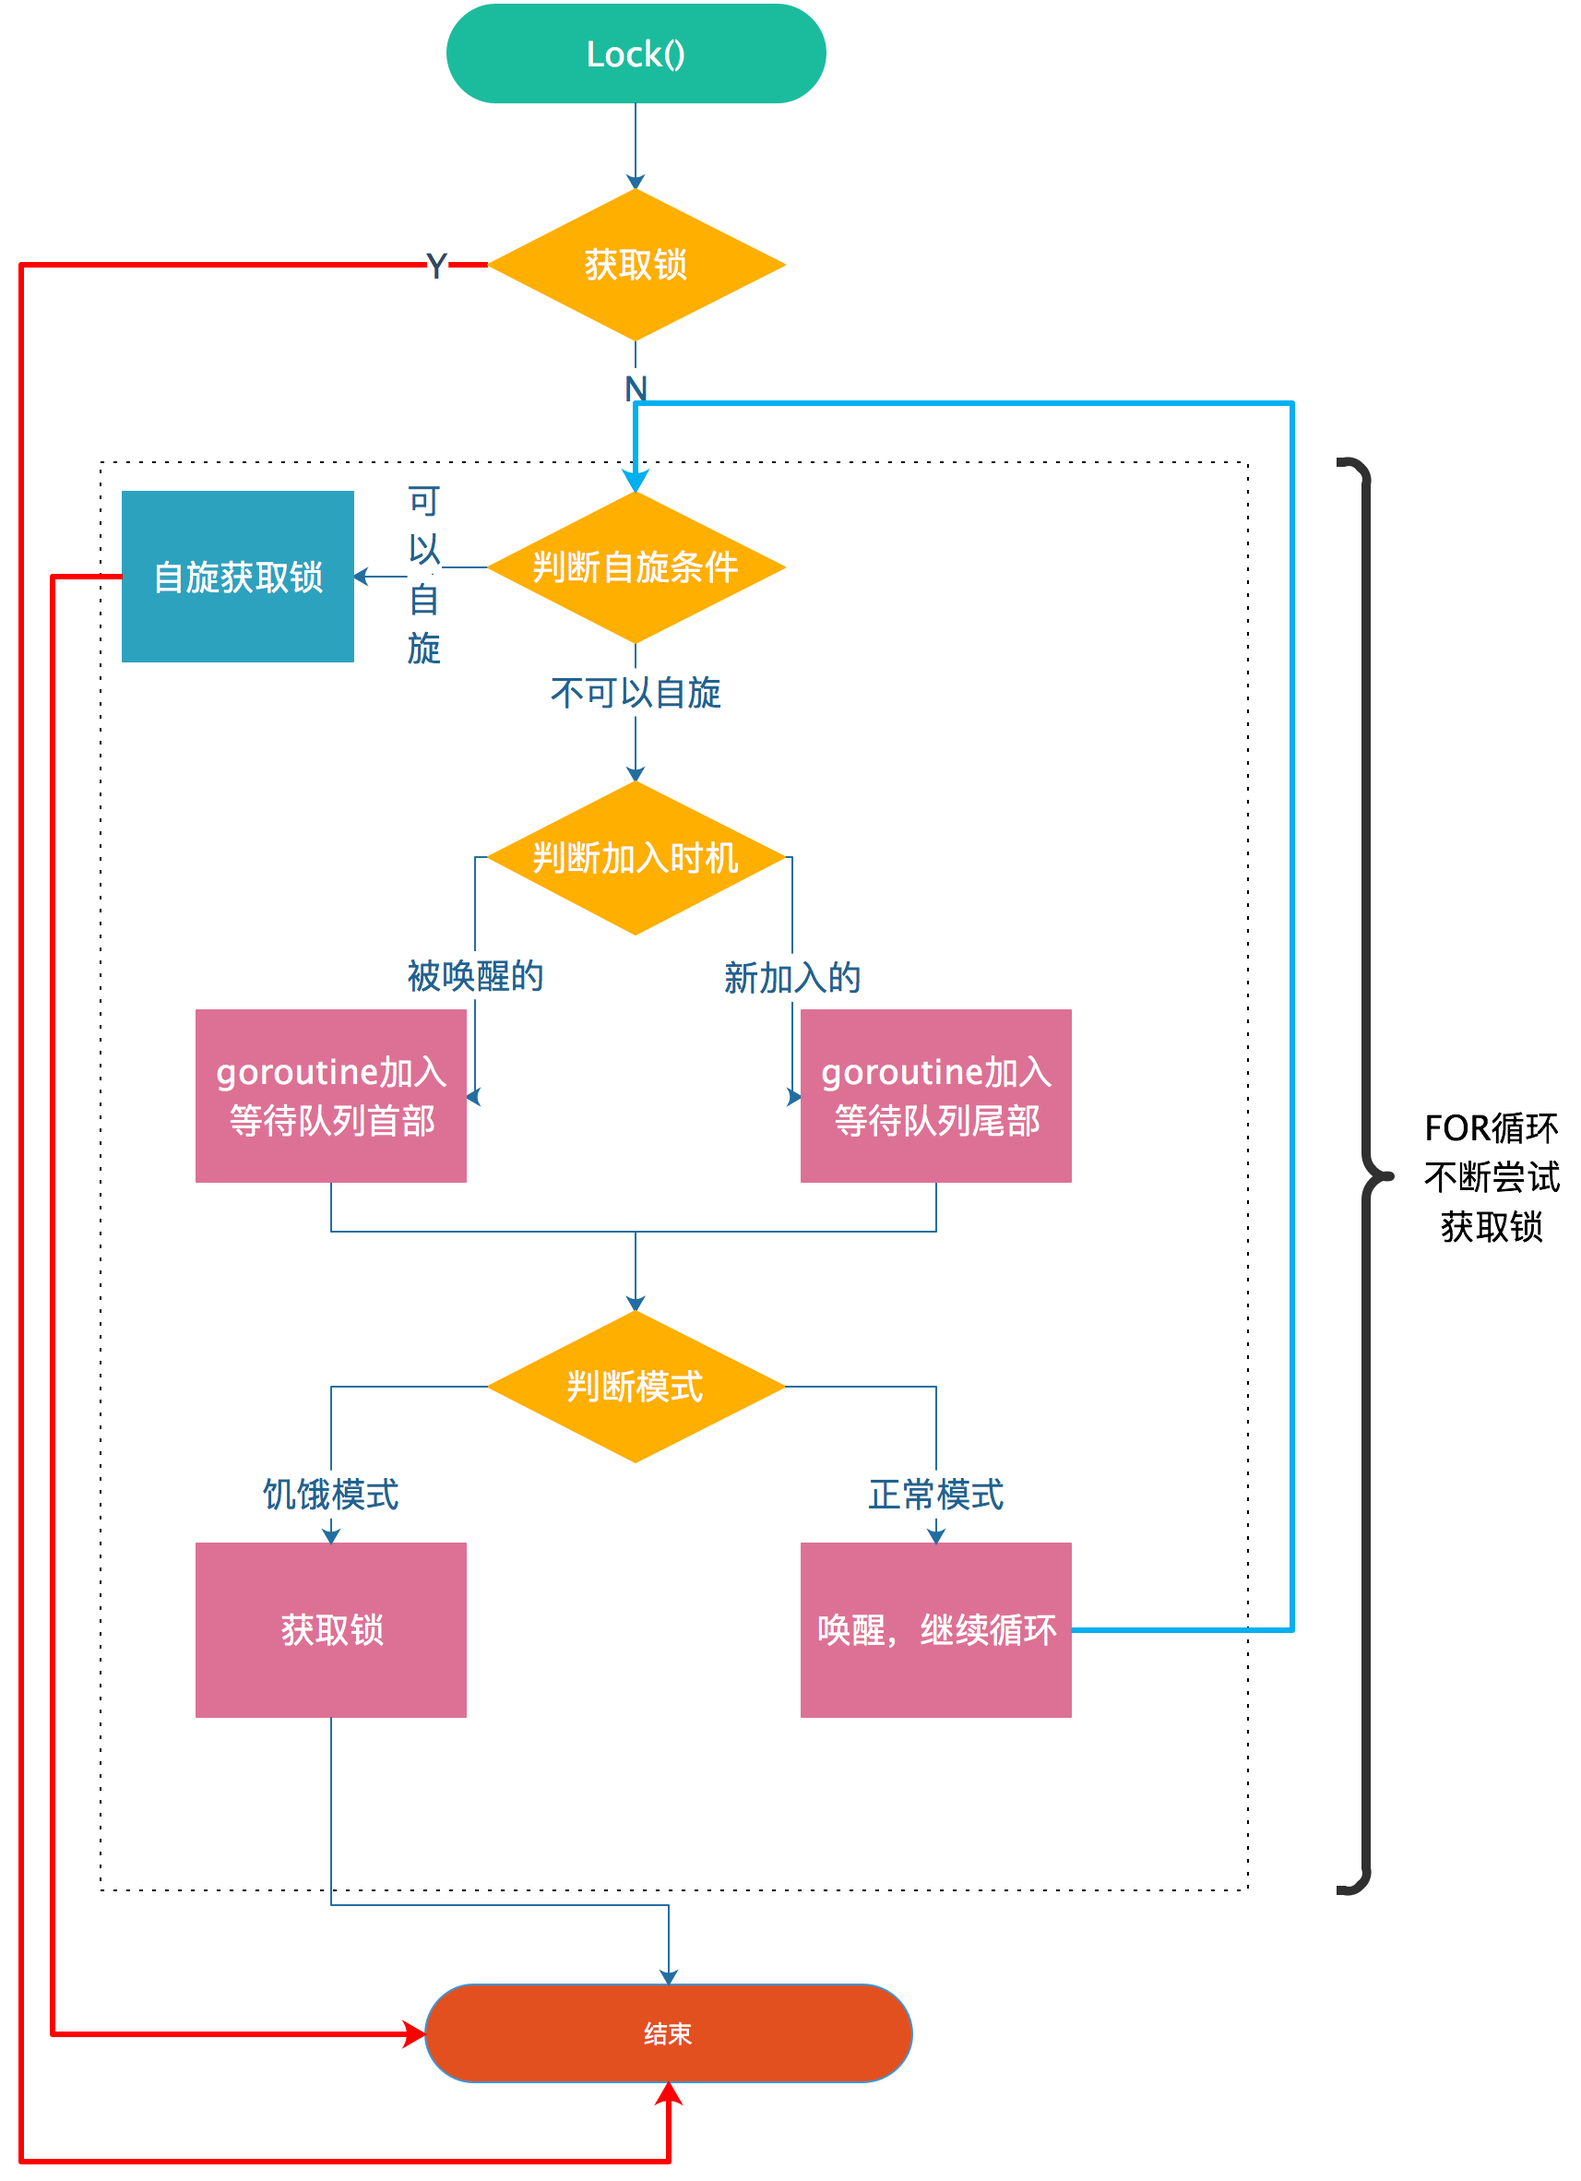
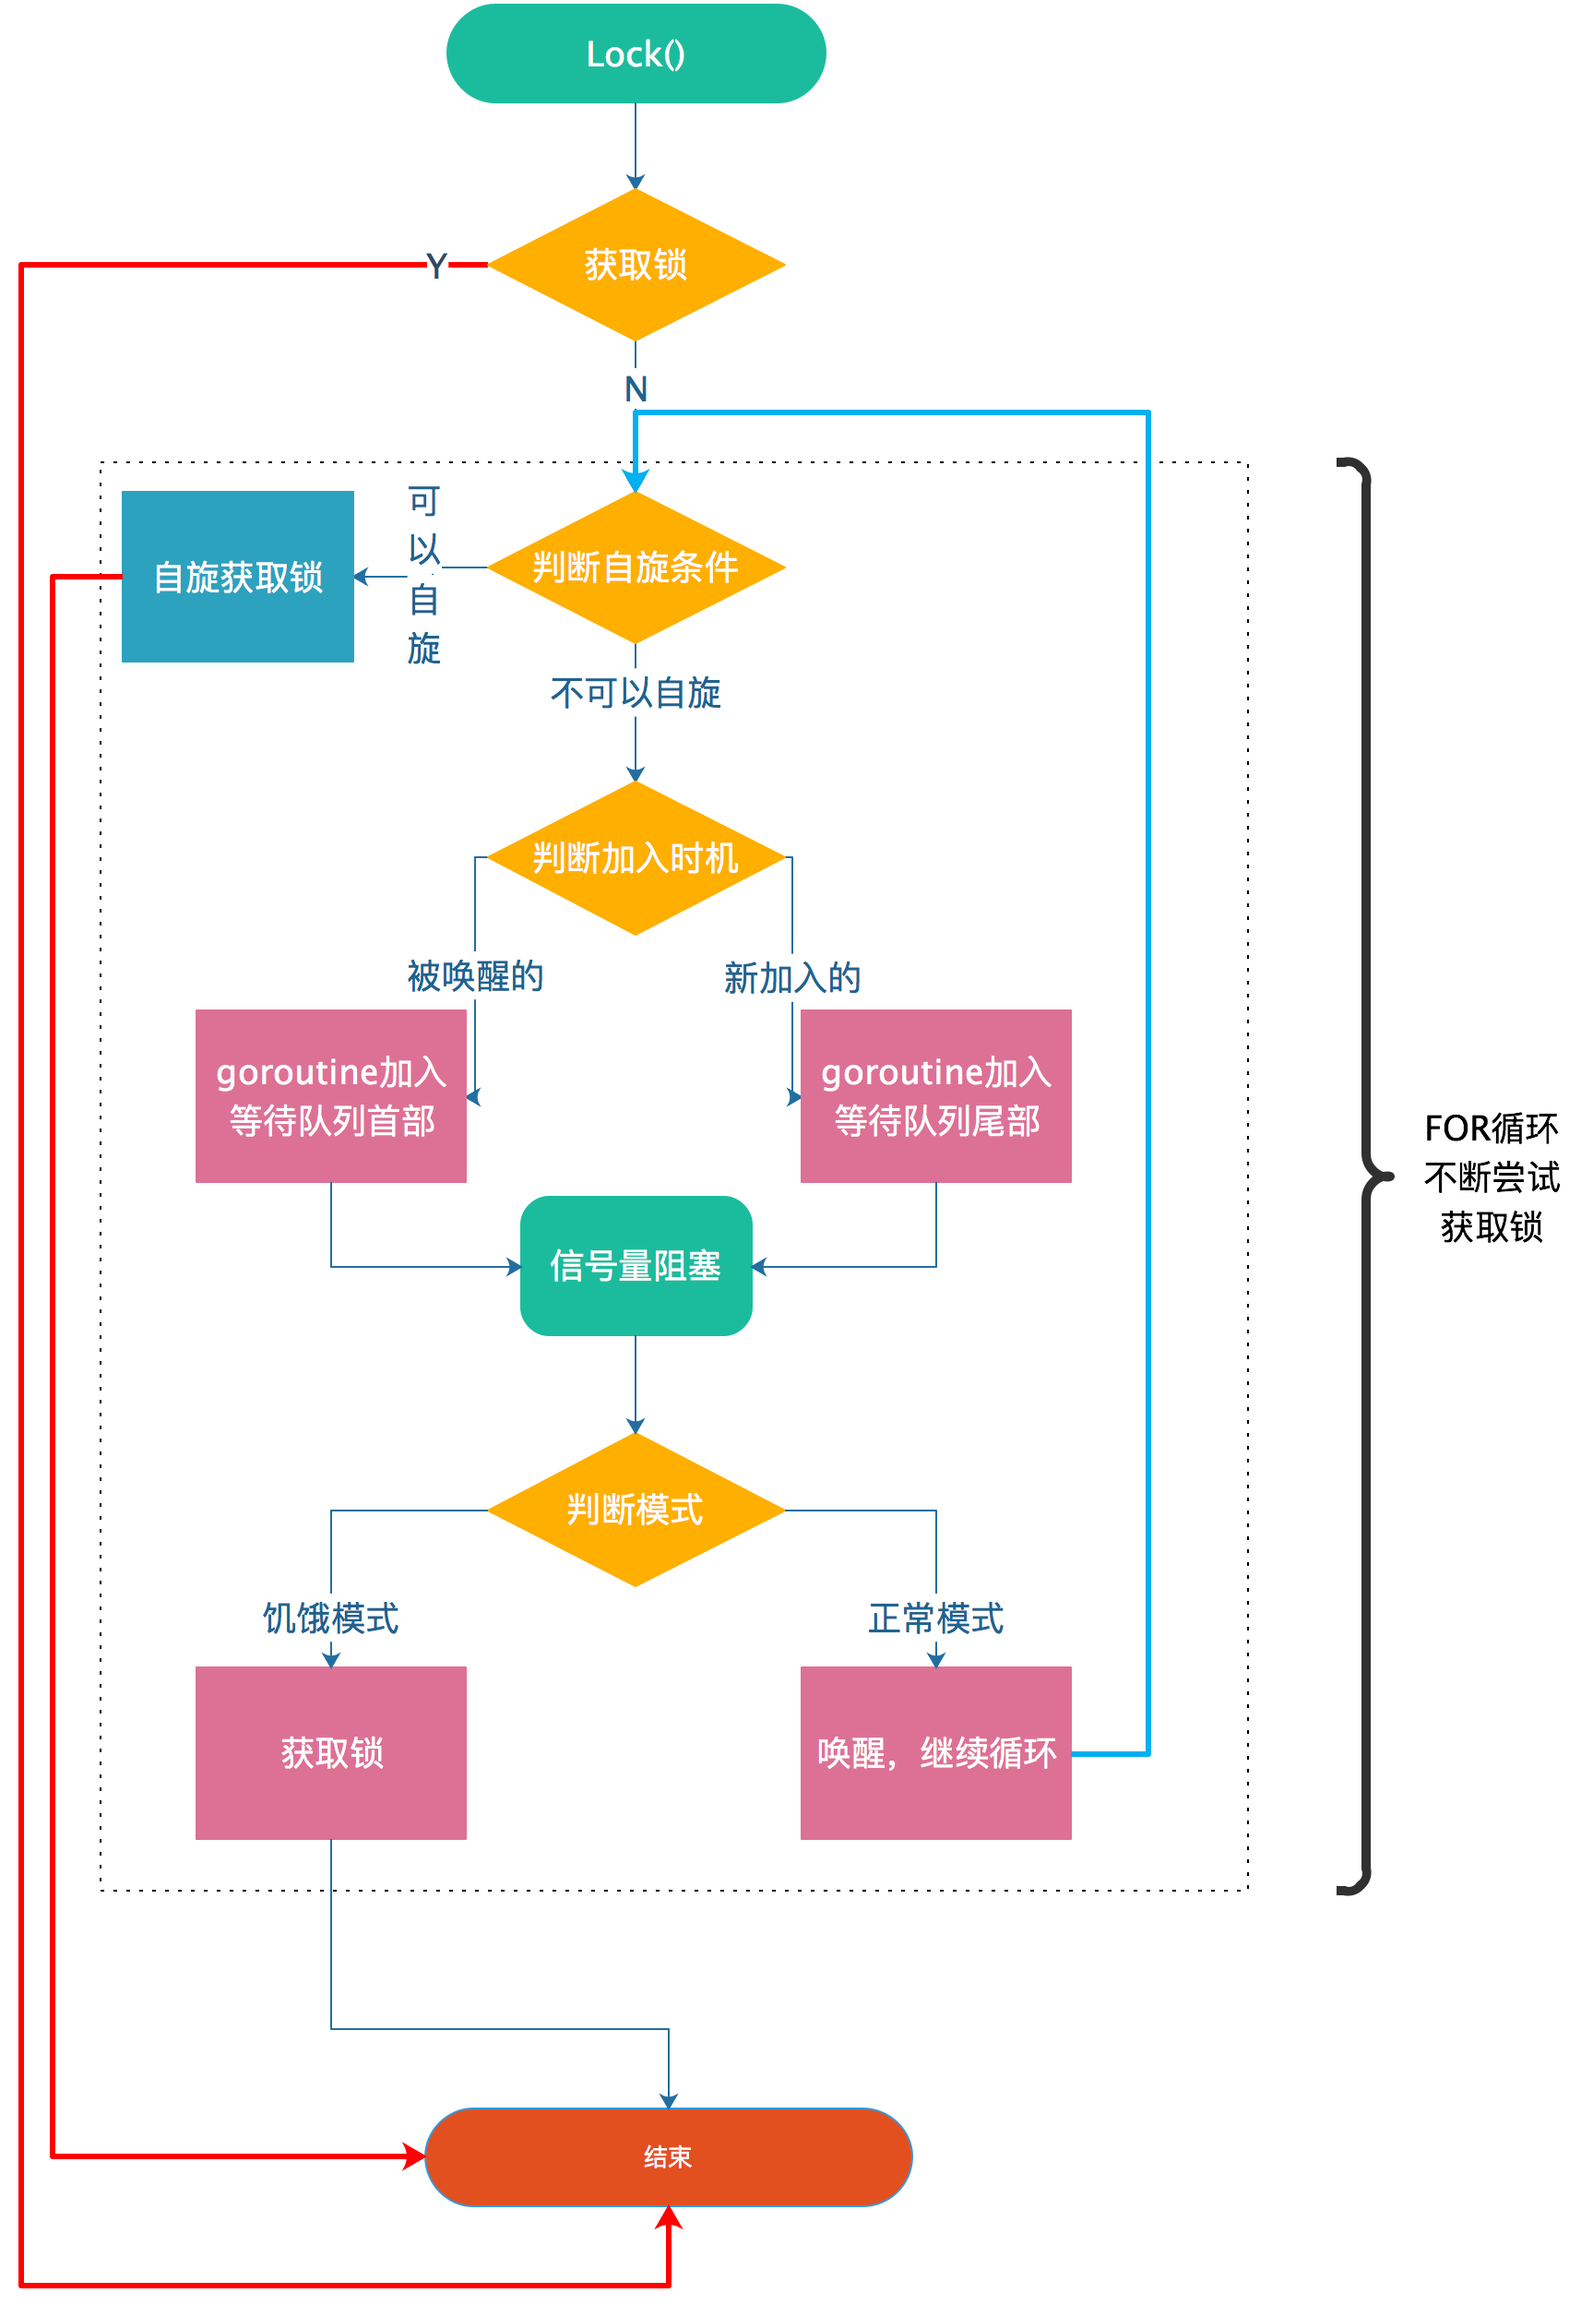
sync.Mutex

diff --git a/sync/mutex/mutex.md b/sync/mutex/mutex.md
@@ -119,13 +119,19 @@ type Mutex struct {
 
 1、可直接获取锁，直接加锁，返回；  
 
-2、有冲突 首先自旋，如果其他`goroutine`在这段时间内释放了该锁，直接获得该锁；如果没有释放
+2、有冲突 首先自旋，如果其他`goroutine`在这段时间内释放了该锁，直接获得该锁；如果没有就走到下面3；  
 
-3、有冲突，且已经过了自旋阶段，这时候可能存在两种状态，饥饿模式，正常模式；  
+3、有冲突，且已经过了自旋阶段，通过信号量进行阻塞；  
 
-- 1、饥饿模式 加入到等待队列首部，通过信号量阻塞，等待被唤醒；  
+- 1、刚被唤醒的 加入到等待队列首部；  
 
-- 2、正常模式 唤醒，重新回到3。  
+- 2、新加入的 加入到等待队列的尾部。  
+
+4、有冲突，根据不同的模式做处理； 
+
+- 1、饥饿模式 获取锁  
+
+- 2、正常模式 唤醒，继续循环，回到2  
 
 ```go
 // Lock locks m.
@@ -389,13 +395,13 @@ again:
 
 8、如果`old state`的状态是未被锁状态，并且锁不处于饥饿状态,那么当前`goroutine`已经获取了锁的拥有权，结束`Lock`;  
 
-9、判断一下当前`goroutine`是新来的还是刚被唤醒的，新来的加入到等待队列的尾部，刚被唤醒的加入到等待队列的头部，然后通过信号量阻塞，直到当前`goroutine`被放到队列的头部；  
+9、判断一下当前`goroutine`是新来的还是刚被唤醒的，新来的加入到等待队列的尾部，刚被唤醒的加入到等待队列的头部，然后通过信号量阻塞，直到当前`goroutine`被唤醒；  
 
 10、判断如果当前`state`是否是饥饿状态，不是的唤醒本次`goroutine`,继续循环，是饥饿状态继续往下面走；  
 
 11、饥饿状态，当前`goroutine`来设置锁，等待者减一，如果当前`goroutine`是队列中最后一个`goroutine`设置饥饿状态为正常，拿到锁结束`Lock`。  
 
-<img src="/img/sync_mutex_lock.png" width = "642" height = "886" alt="mutex" align=center />
+<img src="/img/sync_mutex_lock.png" width = "642" height = "936" alt="mutex" align=center />
 
 #### Unlock
 
